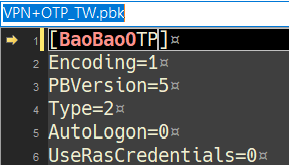
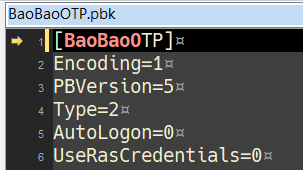
Update README.md.

diff --git a/README.md b/README.md
@@ -14,7 +14,7 @@ Account  = 帳號
 Password = 密碼  
 Domain   = VPN Domain  
 Email    = E-Mail 地址  
-VpnName  = VPN 名稱  
+VpnName  = 自訂的 VPN 名稱 (英文 only，不要空格，不要特殊字元)  
   
 ClockInServer  = 打卡網站  
 ExchangeServer = E-Mail Server  
@@ -24,10 +24,12 @@ VpnTestServer3 = 用來測試 VPN 連線的 server #3
   
 BotToken = Token from BotFather  
 ChatID   = Telegram 的 User ID  
-![image](https://github.com/WilbertHsu/BaoBaoClockInAssistance/blob/main/img/TelegramBotAndId.jpg)  
+![image](https://github.com/WilbertHsu/BaoBaoClockInAssistance/blob/main/img/TelegramBotAndId.png)  
   
 ### Step 3
-把寶寶餵給你吃的 VPN 連線檔複製一份到這裡，再用文字編輯器把第一行改成你 INI 裡設定的 VPN 名稱。  
+把寶寶餵給你吃的 VPN 連線檔複製一份到這裡。  
+把檔案名稱改成自訂的 VPN 名稱。  
+再用文字編輯器打開 VPN 連線檔 (*.PBK) 把第一行改成自訂的 VPN 名稱。  
 ![image](https://github.com/WilbertHsu/BaoBaoClockInAssistance/blob/main/img/ChangePkbName.png)  
   
 ### Step 4
